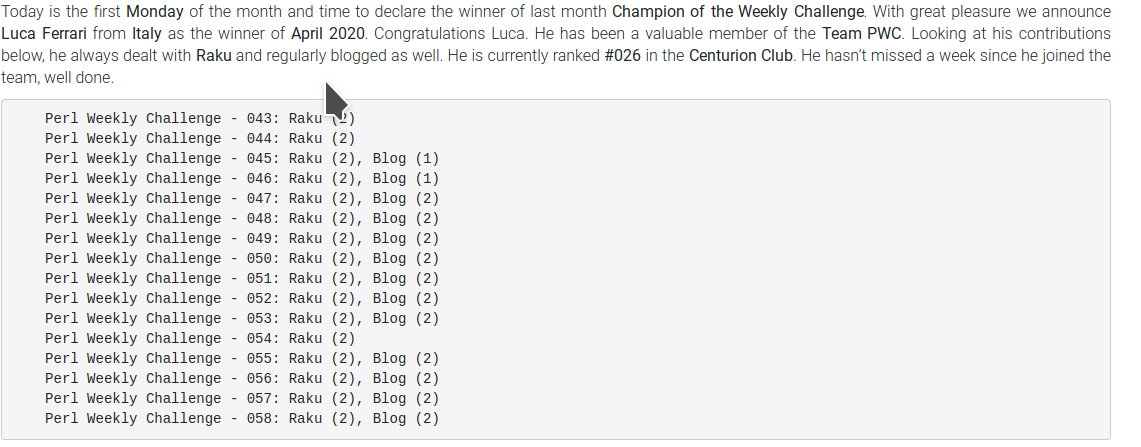
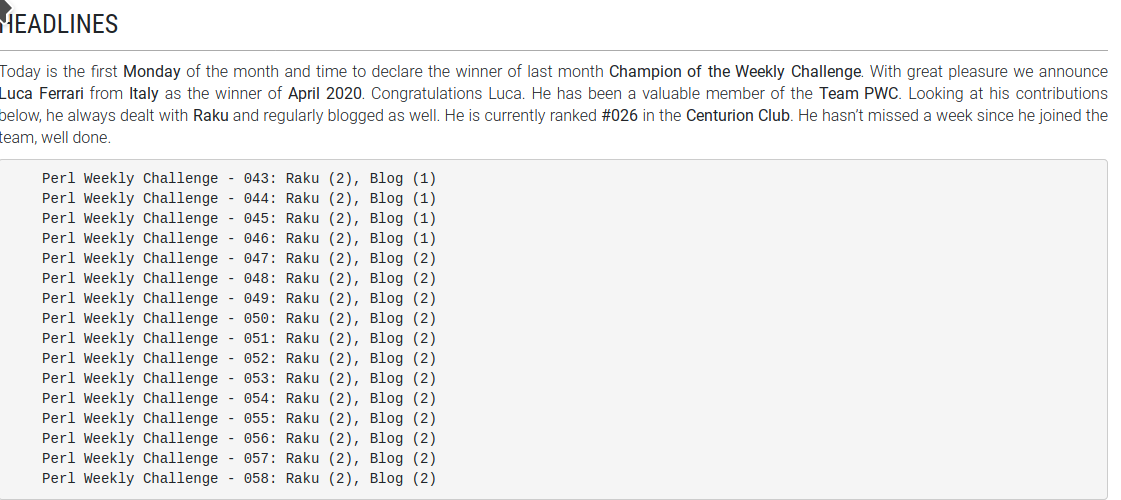
Update to ranking in PWC.

Changed region(s): [[0.0, 0.0, 0.9991, 1.0]]

diff --git a/_posts/2020-05-04-PerlWeeklyChallenge_Champion_April.md b/_posts/2020-05-04-PerlWeeklyChallenge_Champion_April.md
@@ -28,3 +28,19 @@ It is an honor and a pleasure, and I have to really thanks Mohammad for creating
 I strongly encourage everyone that wants to puzzle at Perl and Raku problems to have a look at the challenge and try to do it.
 <br/>
 **The only thing you can obtain from participating, is to improve your Perl skills!**
+
+
+## Update
+
+When I was selected as April Champion, I noticed that a few blog entries were missing from my ranking poition. I sent an email to Mohammad that promptly fixed the problem, so that I'm, at the time of writing, **ranked 24** in the *Centurion Club*.
+
+<br/>
+<br/>
+<center>
+<a href="https://perlweeklychallenge.org/blog/perl-weekly-challenge-059/" target="_blank">
+<img src="/images/posts/raku/pwc_champion_april_2020-centurion.png" />
+</a>
+</center>
+
+<br/>
+<br/>
